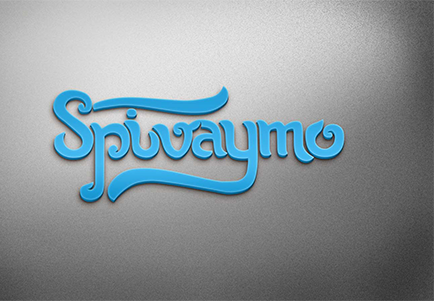
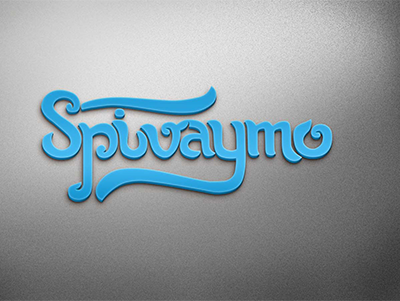
portfolio img width fixed

Changed region(s): [[0.36, 0.2691, 0.84, 0.6578], [0.09, 0.299, 0.33, 0.6877], [0.78, 0.0, 1.0, 0.3887]]

diff --git a/style.css b/style.css
@@ -152,8 +152,7 @@ table {
 
 .services_item {
     display: inline-block;
-    margin-right: 5px;
-    padding: 3px;
+    padding: 40px;
     vertical-align: top;
 }
 
@@ -202,9 +201,8 @@ table {
 
 .services_banner_img {
 
-    margin-left: 1px;
-    margin-right: 1px;
-    width: 100%;
+    padding-left: 40px;
+    width: 90%;
 }
 
 .portfolio h2 {
@@ -220,12 +218,16 @@ table {
 
 .portfolio ul {
     margin-top: 63px;
-    width: 100%;
+    padding: 0;
+    margin-left: 0;
+    
 }
 
 .portfolio li {
     display: inline-block;
-    width: 33%;
+    width: 33.3%;
+    margin: 0;
+    padding: 0;
 }
 
 .portfolio img {
